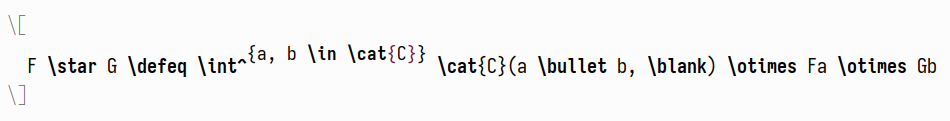
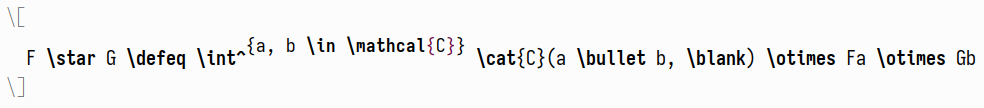
posts/pretty-latex: Fix first picture
Thanks, Philip!

Changed region(s): [[0.0, 0.3333, 1.0, 0.6389], [0.0, 0.0556, 0.0305, 0.3056], [0.0, 0.6944, 0.0305, 0.9167]]

diff --git a/docs/posts/pretty-latex.html b/docs/posts/pretty-latex.html
@@ -70,7 +70,7 @@
       
       
       
-        &thinsp;·&thinsp; <span title="1597 words">7 min read</span> &thinsp;·&nbsp;
+        &thinsp;·&thinsp; <span title="1595 words">7 min read</span> &thinsp;·&nbsp;
       
       
         <a title="All pages tagged 'emacs'." href="../tags/emacs.html" rel="tag">emacs</a>
@@ -95,7 +95,7 @@
   </div>
 
 <div>
-  A friend of mine recently confided in me that,
+  A friend recently confided in me that,
 after years of using Emacs,
 he was only now getting into using <code>prettify-symbols-mode</code> for editing LaTeX buffers!
 After overwhelming him with more customisations related to this,

diff --git a/docs/index.html b/docs/index.html
@@ -63,7 +63,7 @@
       <span style="font-size: 19px"> (<a title="All pages tagged 'emacs'." href="./tags/emacs.html" rel="tag">emacs</a>) </span>
     </div>
     <p>
-      A friend of mine recently confided in me that,
+      A friend recently confided in me that,
 after years of using Emacs,
 he was only now getting into using <code>prettify-symbols-mode</code> for editing LaTeX buffers!
 After overwhelming him with more customisations related to this,

diff --git a/posts/pretty-latex.md b/posts/pretty-latex.md
@@ -4,7 +4,7 @@ date: 2023-09-10
 tags: emacs
 ---
 
-A friend of mine recently confided in me that,
+A friend recently confided in me that,
 after years of using Emacs,
 he was only now getting into using `prettify-symbols-mode` for editing LaTeX buffers!
 After overwhelming him with more customisations related to this,
